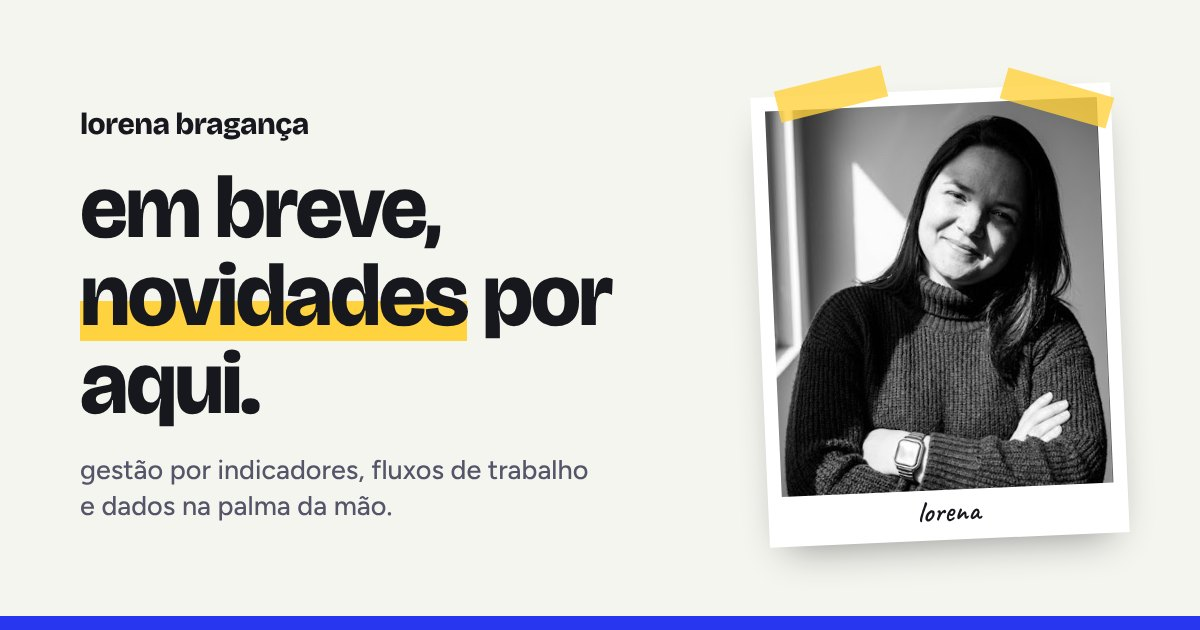
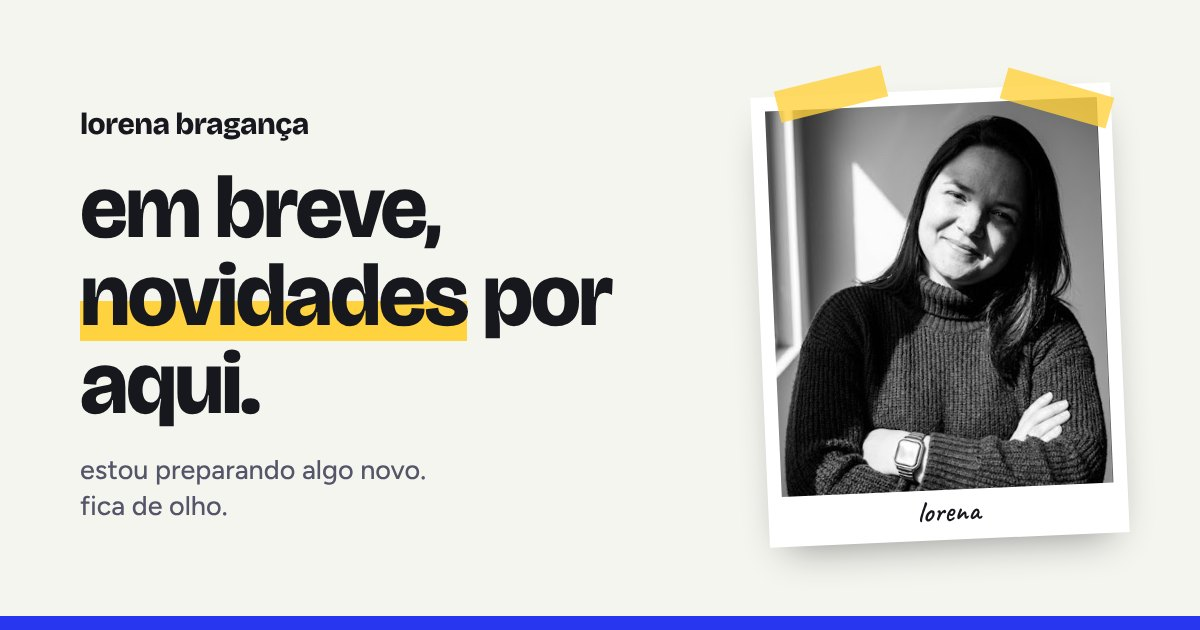
A página "em breve" não conta o que vem
A Lorena pediu sem spoiler: saem o tema, o recado da mentoria e a descrição
da prévia do link, inclusive a da imagem que o WhatsApp mostra.

Claude-Session: https://claude.ai/code/session_01YXWX7oL9GGizcRcotajMLe

Changed region(s): [[0.0617, 0.7238, 0.4933, 0.8444]]

diff --git a/sites/lorenabraganca/index.html b/sites/lorenabraganca/index.html
@@ -4,7 +4,7 @@
 <meta charset="utf-8">
 <meta name="viewport" content="width=device-width, initial-scale=1, viewport-fit=cover">
 <title>Lorena Bragança</title>
-<meta name="description" content="Gestão por indicadores, fluxos de trabalho e dados na palma da mão. Em breve, novidades por aqui.">
+<meta name="description" content="Em breve, novidades por aqui.">
 <meta name="theme-color" content="#F5F5F0">
 <link rel="icon" href="favicon.svg" type="image/svg+xml">
 <link rel="apple-touch-icon" href="icone-180.png">
@@ -15,7 +15,7 @@
 <meta property="og:locale" content="pt_BR">
 <meta property="og:url" content="https://www.lorenabraganca.com.br/">
 <meta property="og:title" content="Lorena Bragança · em breve, novidades">
-<meta property="og:description" content="Gestão por indicadores, fluxos de trabalho e dados na palma da mão.">
+<meta property="og:description" content="Estou preparando algo novo. Fica de olho.">
 <meta property="og:image" content="https://www.lorenabraganca.com.br/previa.jpg">
 <meta property="og:image:width" content="1200">
 <meta property="og:image:height" content="630">
@@ -159,13 +159,13 @@ footer .miolo { padding-block: 18px 24px; border-top: 1px solid var(--linha); fo
       <div class="texto">
         <span class="selo"><i></i> site em construção</span>
         <h1>em breve, <span class="marca">novidades</span> por aqui.</h1>
-        <p class="sub">estou preparando um espaço sobre <b>gestão por indicadores, fluxos de trabalho e dados na palma da mão</b>, pra quem quer tomar decisões no próprio negócio com clareza.</p>
+        <p class="sub">estou preparando algo novo. enquanto isso, me acompanhe no Instagram pra <b>saber antes de todo mundo</b>.</p>
         <div class="acoes">
           <a class="botao" href="https://instagram.com/lolemos" target="_blank" rel="noopener">
             <svg viewBox="0 0 24 24" aria-hidden="true"><rect x="3" y="3" width="18" height="18" rx="5" fill="none" stroke="currentColor" stroke-width="2"/><circle cx="12" cy="12" r="4" fill="none" stroke="currentColor" stroke-width="2"/><circle cx="17.5" cy="6.5" r="1.3" fill="currentColor"/></svg>
             me acompanhe no Instagram
           </a>
-          <span class="mao spoiler">spoiler: tem mentoria chegando</span>
+          <span class="mao spoiler">fica de olho ✦</span>
         </div>
       </div>
     </div>

diff --git a/sites/lorenabraganca/LEIA-ME.md b/sites/lorenabraganca/LEIA-ME.md
@@ -7,6 +7,11 @@ letras.
 Hoje é uma página só, "em breve, novidades por aqui", em HTML puro e sem
 build. Dá para abrir o `index.html` direto no navegador.
 
+**E não revela o que vem.** Nada de tema, de mentoria, de "gestão por
+indicadores": ela pediu sem spoiler (16/10). Isso vale também para a
+`previa.jpg` e para as `meta` de descrição, que aparecem quando o link é
+colado no WhatsApp.
+
 | Arquivo | Para quê |
 |---|---|
 | `index.html` | a página |
